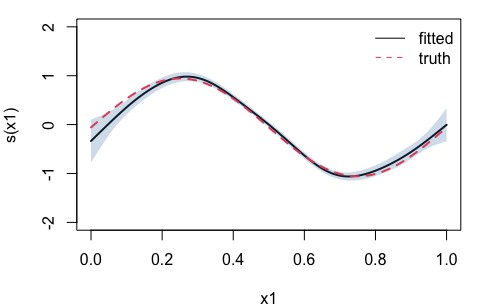
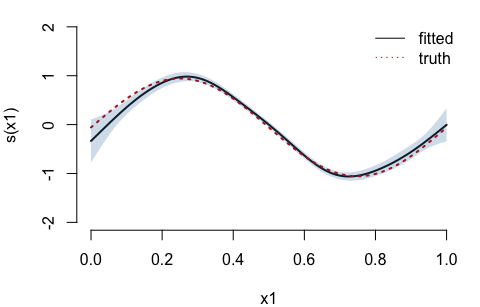
updating readme

diff --git a/README.md b/README.md
@@ -25,6 +25,8 @@ Restricted maximum likelihood is the default, effective degrees of
 freedom per smooth agree with mgcv, and smoothing parameters can be
 shared between terms *and* between distributional parameters.
 
+Most of the package was written by Claude Code.
+
 ## Installation
 
 ``` r
@@ -43,13 +45,10 @@ library(gamRTMB)
 set.seed(1)
 n <- 500
 d <- data.frame(x1 = runif(n), x2 = runif(n))
-d$y <- rnorm(n,
-             mean = sin(2 * pi * d$x1) + d$x2^2,
-             sd   = exp(-1 + 0.8 * cos(2 * pi * d$x1)))
+d$y <- rnorm(n, mean = sin(2 * pi * d$x1) + d$x2^2,
+             sd = exp(-1 + 0.8 * cos(2 * pi * d$x1)))
 
-fit <- gamRTMB(y ~ list(mean = ~ s(x1) + s(x2),
-                        sd   = ~ s(x1)),
-               data = d)
+fit <- gamRTMB(y ~ list(mean = ~ s(x1) + s(x2), sd = ~ s(x1)), data = d)
 fit
 #> gamRTMB fit
 #>   family:    norm (mean/identity, sd/log)
@@ -172,21 +171,22 @@ Ask for the joint precision matrix at fit time and `predict()` will
 return standard errors, per term or for the whole linear predictor:
 
 ``` r
-fitb <- gamRTMB(y ~ list(mean = ~ s(x1) + s(x2), sd = ~ s(x1)), data = d)
+# fitb <- gamRTMB(y ~ list(mean = ~ s(x1) + s(x2), sd = ~ s(x1)), data = d)
 
 g <- data.frame(x1 = seq(0, 1, length.out = 200), x2 = 0.5)
-tm <- predict(fitb, newdata = g, type = "terms", se.fit = TRUE)
+tm <- predict(fit, newdata = g, type = "terms", se.fit = TRUE)
 
 par(mar = c(4, 4, 1, 1))
 plot(g$x1, tm$mean$fit[, 1], type = "l", lwd = 2, ylim = c(-2, 2),
-     xlab = "x1", ylab = "s(x1)")
+     xlab = "x1", ylab = "s(x1)", bty = "n")
 polygon(c(g$x1, rev(g$x1)),
         c(tm$mean$fit[, 1] + 2 * tm$mean$se[, 1],
           rev(tm$mean$fit[, 1] - 2 * tm$mean$se[, 1])),
         col = adjustcolor("steelblue", 0.25), border = NA)
 lines(g$x1, sin(2 * pi * g$x1) - mean(sin(2 * pi * d$x1)),
-      col = 2, lty = 2, lwd = 2)
-legend("topright", c("fitted", "truth"), col = c(1, 2), lty = c(1, 2), bty = "n")
+      col = "firebrick", lty = 3, lwd = 2)
+legend("topright", c("fitted", "truth"), col = c(1, "firebrick"), 
+       lty = c(1, 3), bty = "n")
 ```
 
 <img src="man/figures/README-bands-1.png" width="100%" />
